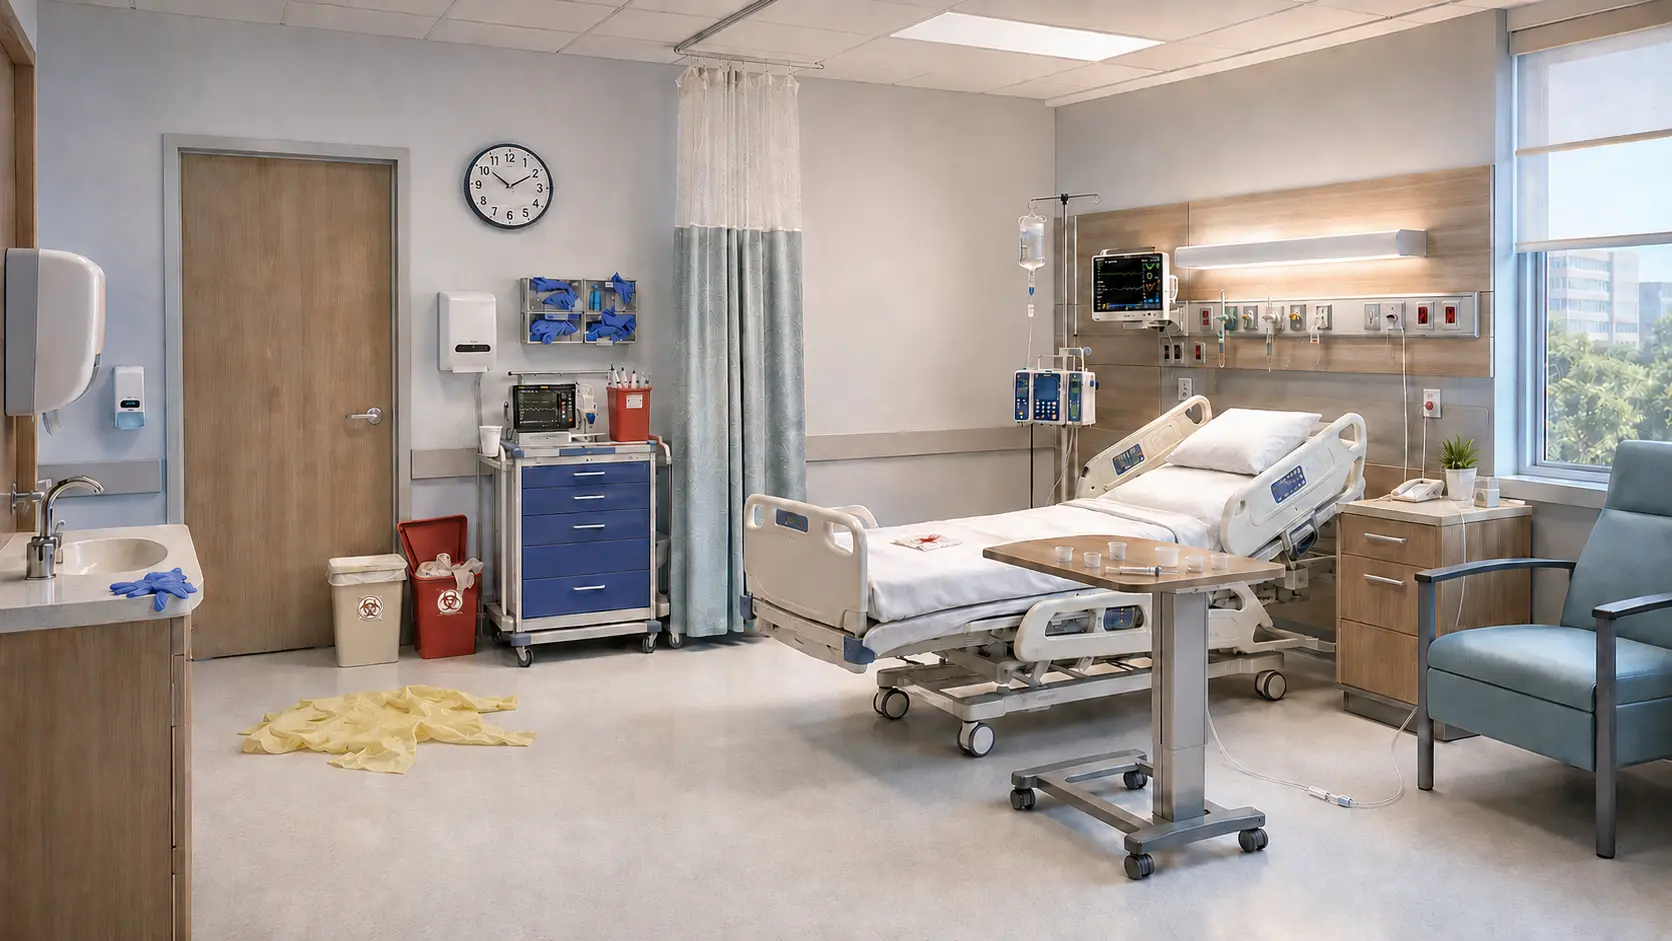
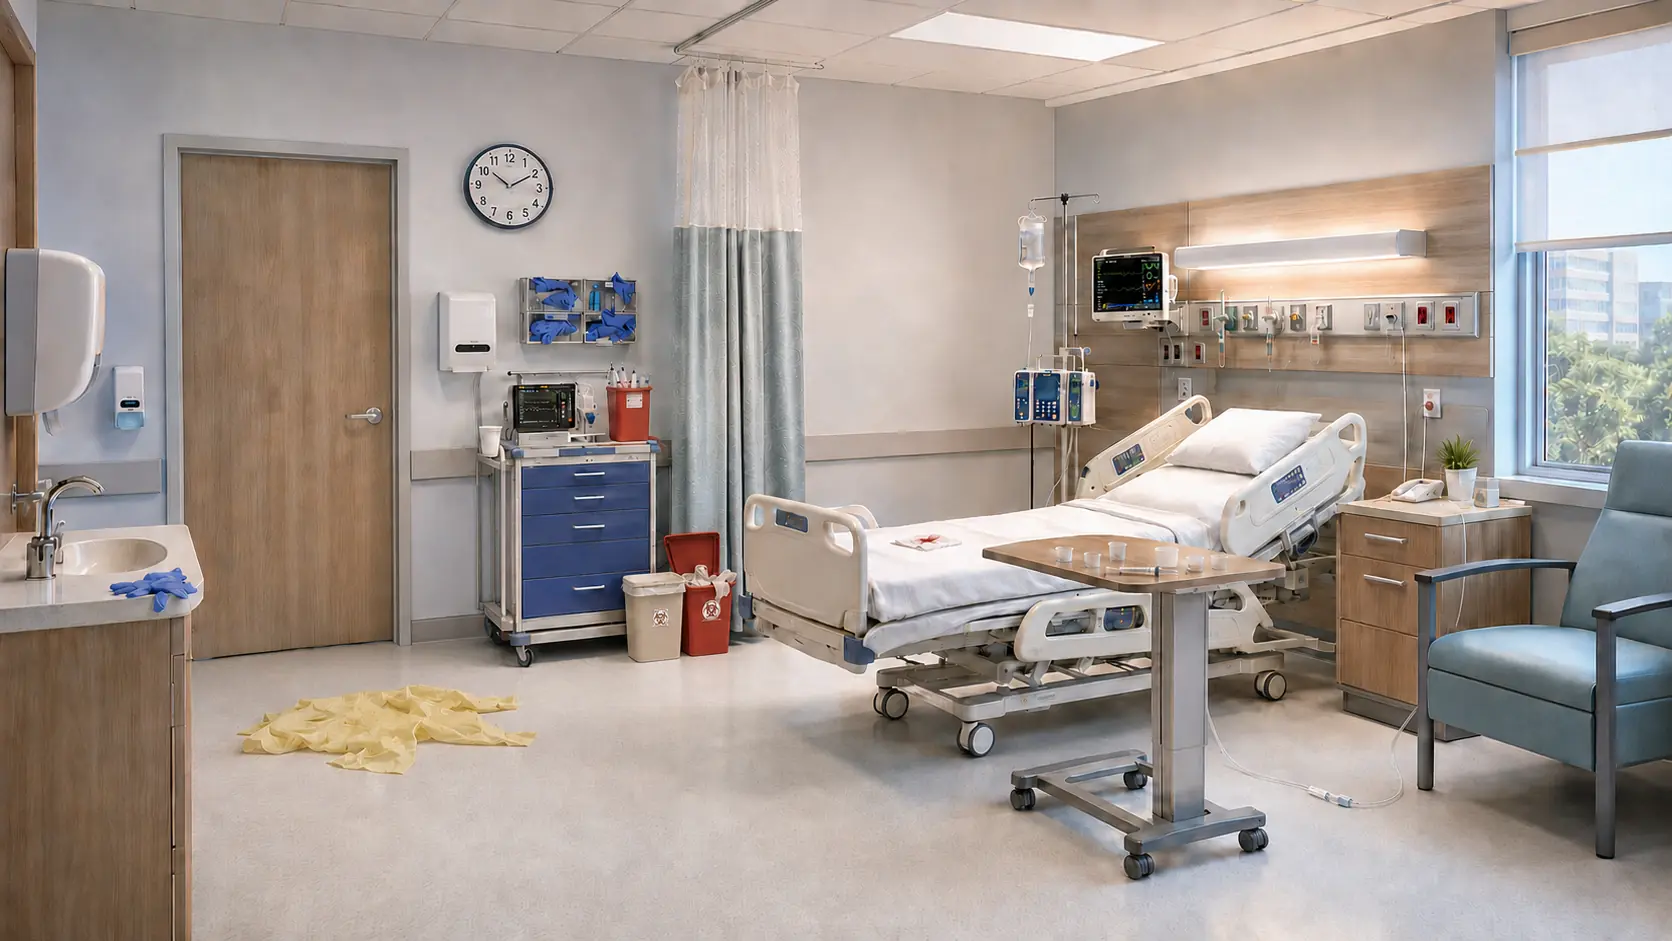
Move medical waste bins away from room entrances

diff --git a/app/page.tsx b/app/page.tsx
@@ -96,8 +96,8 @@ const TUTORIAL_POINTS: TutorialPoint[] = [
   },
   {
     id: 4,
-    x: 24,
-    y: 63,
+    x: 42.5,
+    y: 62,
     title: "의료폐기물 분리",
     category: "환자안전",
     description:
@@ -273,10 +273,10 @@ const CASES: CaseConfig[] = [
       },
       {
         id: 5,
-        x: 34,
-        y: 64,
-        radiusX: 8,
-        radiusY: 9,
+        x: 31,
+        y: 68.5,
+        radiusX: 4.5,
+        radiusY: 5.5,
         title: "응급카트 접근 차단",
         category: "응급대응",
         clue: "응급카트 앞까지 바로 접근할 수 있는지 이동 동선을 확인하세요.",
@@ -463,17 +463,17 @@ const CASES: CaseConfig[] = [
       },
       {
         id: 7,
-        x: 24,
-        y: 62,
-        radiusX: 7,
-        radiusY: 9,
+        x: 46,
+        y: 58,
+        radiusX: 4.8,
+        radiusY: 10.5,
         title: "폐기물통 과충전",
         category: "환경안전",
-        clue: "문 옆 폐기물 용기의 뚜껑과 내용물 높이를 살펴보세요.",
+        clue: "응급카트 옆 폐기물 용기의 뚜껑과 내용물 높이를 살펴보세요.",
         explanation:
-          "임상폐기물통이 넘치고 뚜껑이 열려 있어 오염 노출과 이동 동선 방해 위험이 있습니다.",
+          "임상폐기물통이 넘치고 뚜껑이 열려 있어 오염 물질 노출과 교차오염 위험이 있습니다.",
         action:
-          "용기를 밀봉·교체하고 주변 오염을 확인한 뒤 지정 위치에 안전하게 배치합니다.",
+          "용기를 밀봉·교체하고 주변 오염을 확인한 뒤 지정된 폐기물 관리 구역을 정리합니다.",
       },
       {
         id: 8,
@@ -583,10 +583,10 @@ const CASES: CaseConfig[] = [
       },
       {
         id: 4,
-        x: 25,
-        y: 62,
-        radiusX: 7,
-        radiusY: 9,
+        x: 42.5,
+        y: 59.5,
+        radiusX: 4.8,
+        radiusY: 9.5,
         title: "개방된 감염성 폐기물통",
         category: "폐기물관리",
         clue: "붉은색 폐기물통의 뚜껑과 주변을 확인하세요.",
